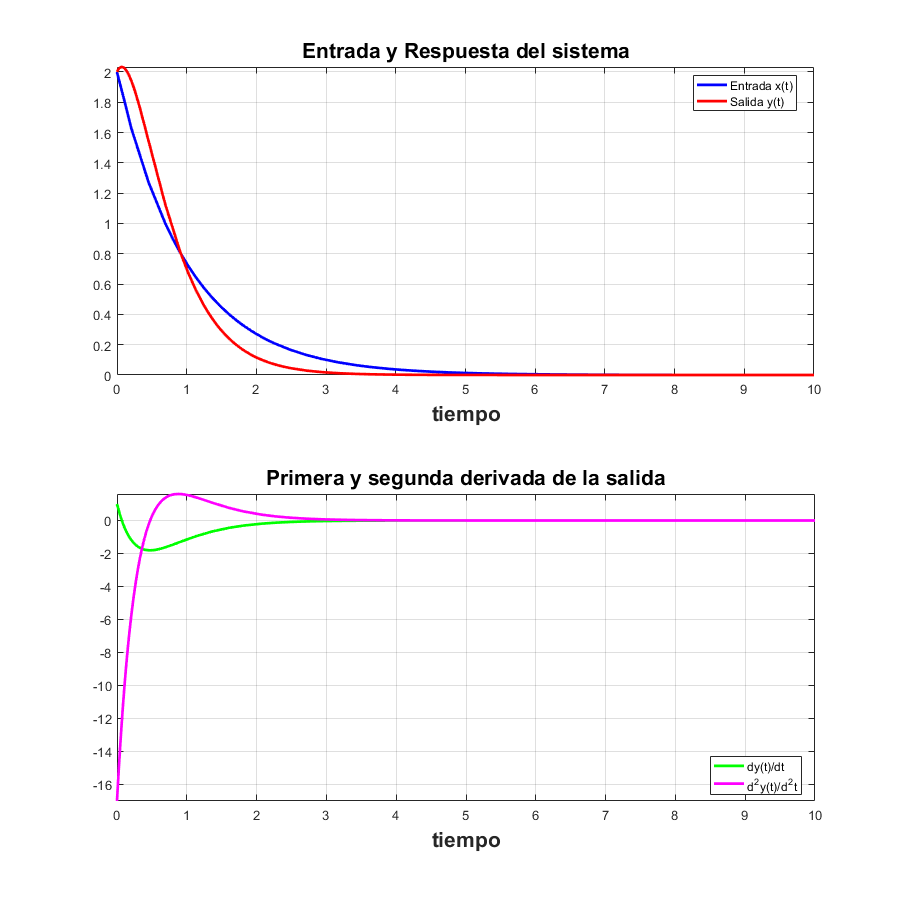
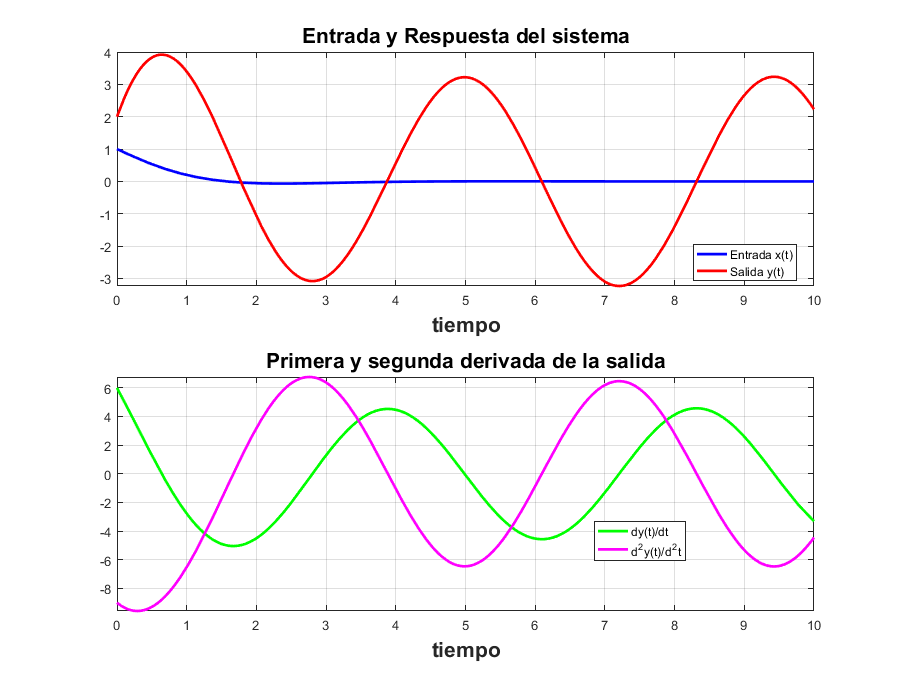
Ajustes

diff --git a/RPL06 Sistemas diferenciales/Ejercicio/html/Practica6.html b/RPL06 Sistemas diferenciales/Ejercicio/html/Practica6.html
@@ -6,7 +6,7 @@
    <!--
 This HTML was auto-generated from MATLAB code.
 To make changes, update the MATLAB code and republish this document.
-      --><title>Pr&aacute;ctica 6: Sistemas diferenciales</title><meta name="generator" content="MATLAB 9.0"><link rel="schema.DC" href="http://purl.org/dc/elements/1.1/"><meta name="DC.date" content="2017-06-05"><meta name="DC.source" content="Practica6.m"><style type="text/css">
+      --><title>Pr&aacute;ctica 6: Sistemas diferenciales</title><meta name="generator" content="MATLAB 9.0"><link rel="schema.DC" href="http://purl.org/dc/elements/1.1/"><meta name="DC.date" content="2017-06-06"><meta name="DC.source" content="Practica6.m"><style type="text/css">
 html,body,div,span,applet,object,iframe,h1,h2,h3,h4,h5,h6,p,blockquote,pre,a,abbr,acronym,address,big,cite,code,del,dfn,em,font,img,ins,kbd,q,s,samp,small,strike,strong,sub,sup,tt,var,b,u,i,center,dl,dt,dd,ol,ul,li,fieldset,form,label,legend,table,caption,tbody,tfoot,thead,tr,th,td{margin:0;padding:0;border:0;outline:0;font-size:100%;vertical-align:baseline;background:transparent}body{line-height:1}ol,ul{list-style:none}blockquote,q{quotes:none}blockquote:before,blockquote:after,q:before,q:after{content:'';content:none}:focus{outine:0}ins{text-decoration:none}del{text-decoration:line-through}table{border-collapse:collapse;border-spacing:0}
 
 html { min-height:100%; margin-bottom:1px; }
@@ -67,42 +67,51 @@ table td { padding:7px 5px; text-align:left; vertical-align:top; border:1px soli
 
 
   </style></head><body><div class="content"><h1>Pr&aacute;ctica 6: Sistemas diferenciales</h1><!--introduction--><p>Alvarado Balbuena Jorge Anselmo</p><!--/introduction--><h2>Contents</h2><div><ul><li><a href="#1">Configuracion de funcion</a></li><li><a href="#2">Problema a resolver</a></li><li><a href="#3">Ejecucion de Funcion</a></li></ul></div><h2>Configuracion de funcion<a name="1"></a></h2><p>Configuracion de funcion</p><pre class="codeinput">sympref(<span class="string">'HeavisideAtOrigin'</span>, 1);
-</pre><h2>Problema a resolver<a name="2"></a></h2><p>Resolver y^(3)+y^(2)+2y^(1)+2y=3x^(2)-x^(1)+2x con y^(2)(0)=1 y^(1)=3</p><p>y(0)=2, x(0)=0 x^(1)=1, x(t)=exp(-t)cos(t)u(t)</p><p>Para 10 segundos</p><h2>Ejecucion de Funcion<a name="3"></a></h2><pre class="codeinput">sympref(<span class="string">'HeavisideAtOrigin'</span>, 1);
-syms <span class="string">t</span>
-Laplace2016a([6 5 1],[1 1],[2,-1],[0],2.*exp(-t),10)
+</pre><h2>Problema a resolver<a name="2"></a></h2><p>Resolver y^(3)+y^(2)+2y^(1)+2y=3x^(2)-x^(1)+2x con y^(2)(0)=1 y^(1)=3</p><p>y(0)=2, x(0)=0 x^(1)=1, x(t)=exp(-t)cos(t)u(t)</p><p>Para 10 segundos</p><h2>Ejecucion de Funcion<a name="3"></a></h2><pre class="codeinput">syms <span class="string">t</span>
+Laplace2016a([2 2 1 1],[2 -1 3],[2 3 1],[0 1],exp(-t)*cos(t)*heaviside(t),10)
 </pre><pre class="codeoutput"> 
 La soluci&oacute;n es
  
 y(t)=
-7*exp(-2*t) - 5*exp(-3*t)
+(2*exp(-t))/3 + (7*cos(2^(1/2)*t))/3 - exp(-t)*(cos(t) - (5*sin(t))/2) + (19*2^(1/2)*sin(2^(1/2)*t))/12
  
  
 Respuesta entrada 0
  
-5*exp(-2*t) - 3*exp(-3*t)
+(5*exp(-t))/3 + cos(2^(1/2)*t)/3 + (7*2^(1/2)*sin(2^(1/2)*t))/3
  
  
 Respuesta estado 0
  
-2*dirac(t)
+3*exp(-t)*(cos(t) + (7*sin(t))/3) - 7*dirac(t) + 3*dirac(1, t)
  
  
 Respuesta Total
  
-5*exp(-2*t) - 3*exp(-3*t) + 2*dirac(t)
+(5*exp(-t))/3 + cos(2^(1/2)*t)/3 - 7*dirac(t) + 3*exp(-t)*(cos(t) + (7*sin(t))/3) + (7*2^(1/2)*sin(2^(1/2)*t))/3 + 3*dirac(1, t)
  
 Funcion de tranferencia
-s + 1
+(((s + 1)^2 + 1)*(3*s + (3*(s + 1))/((s + 1)^2 + 1) + 7/((s + 1)^2 + 1) - 7))/(s + 1)
  
-s + 1
+        2      /         3 (s + 1)          7          \
+((s + 1)  + 1) | 3 s + ------------ + ------------ - 7 |
+               |              2              2         |
+               \       (s + 1)  + 1   (s + 1)  + 1     /
+--------------------------------------------------------
+                          s + 1
 
  
 Respuesta al impulso
  
+3*dirac(2, t) - dirac(t) - 4*dirac(1, t) - 3*exp(-t)
+ 
+ 
+Respuesta al escalon
+ 
  
 ans(t) =
  
-7*exp(-2*t) - 5*exp(-3*t)
+(2*exp(-t))/3 + (7*cos(2^(1/2)*t))/3 - exp(-t)*(cos(t) - (5*sin(t))/2) + (19*2^(1/2)*sin(2^(1/2)*t))/12
  
 </pre><img vspace="5" hspace="5" src="Practica6_01.png" alt=""> <img vspace="5" hspace="5" src="Practica6_02.png" alt=""> <p class="footer"><br><a href="http://www.mathworks.com/products/matlab/">Published with MATLAB&reg; R2016a</a><br></p></div><!--
 ##### SOURCE BEGIN #####
@@ -123,8 +132,7 @@ sympref('HeavisideAtOrigin', 1);
 %% Ejecucion de Funcion
 %
 
-sympref('HeavisideAtOrigin', 1);
 syms t
-Laplace2016a([6 5 1],[1 1],[2,-1],[0],2.*exp(-t),10)
+Laplace2016a([2 2 1 1],[2 -1 3],[2 3 1],[0 1],exp(-t)*cos(t)*heaviside(t),10)
 ##### SOURCE END #####
 --></body></html>

diff --git a/RPL06 Sistemas diferenciales/Ejercicio/Laplace2016a.m b/RPL06 Sistemas diferenciales/Ejercicio/Laplace2016a.m
@@ -91,7 +91,8 @@ function [y] = Laplace2016a(a, b, ciy, cix, xi, t0)
     subplot(3,2,1);
     fplot(entradaCero, [0,t0],'b','LineWidth',2);
     grid on;
-    legend('Respuesta a entrada 0','Location','Best');
+%     legend('Respuesta a entrada 0','Location','Best');
+    title('Respuesta a entrada 0')
     xlabel('t','FontWeight','bold','FontSize',16);
     
     %%% Grafica de la respuesta a estado cero
@@ -104,7 +105,8 @@ function [y] = Laplace2016a(a, b, ciy, cix, xi, t0)
     subplot(3,2,2);
     fplot(estadoCero, [0,t0],'b','LineWidth',2);
     grid on;
-    legend('Respuesta a estado 0','Location','Best');
+%     legend('Respuesta a estado 0','Location','Best');
+    title('Respuesta al estado 0')
     xlabel('t','FontWeight','bold','FontSize',16);
     
     %%% Grafica de la respuesta total
@@ -116,7 +118,8 @@ function [y] = Laplace2016a(a, b, ciy, cix, xi, t0)
     subplot(3,2,3);
     fplot(respTotal, [0,t0],'b','LineWidth',2);
     grid on;
-    legend('Respuesta Total','Location','Best');
+%     legend('Respuesta Total','Location','Best');
+    title('Respuesta Total')
     xlabel('t','FontWeight','bold','FontSize',16);
     
     %%% Funcion de transferencias
@@ -133,7 +136,8 @@ function [y] = Laplace2016a(a, b, ciy, cix, xi, t0)
     subplot(3,2,4);
     fplot(respuestaImpulso, [0,t0],'b','LineWidth',2);
     grid on;
-    legend('Respuesta al impulso','Location','Best');
+%     legend('Respuesta al impulso','Location','Best');
+    title('Respuesta al impulso')
     xlabel('t','FontWeight','bold','FontSize',16);
 
     %%% Grafica respuesta al escalon
@@ -143,7 +147,8 @@ function [y] = Laplace2016a(a, b, ciy, cix, xi, t0)
     subplot(3,2,5);
     fplot(ilaplace(respuestaEscalon), [0,t0],'b','LineWidth',2);
     grid on;
-    legend('Respuesta al escalon','Location','Best');
+%     legend('Respuesta al escalon','Location','Best');
+    title('Respuesta al escalon')
     xlabel('t','FontWeight','bold','FontSize',16);
 
     

diff --git a/RPL06 Sistemas diferenciales/Ejercicio/Pruebas.m b/RPL06 Sistemas diferenciales/Ejercicio/Pruebas.m
@@ -1,6 +1,26 @@
 sympref('HeavisideAtOrigin', 1);
 syms t
-%Laplace2016a([6 5 1],[1 1],[2,-1],[0],2.*exp(-t),10)
-%Laplace2016a([10 7 1],[1],[0,0],[0],heaviside(t),10)
+% Laplace2016a([6 5 1],[1 1],[2,-1],[0],2.*exp(-t),10)
+% Laplace2016a([10 7 1],[1],[0,0],[0],heaviside(t),10)
 Laplace2016a([2 2 1 1],[2 -1 3],[2 3 1],[0 1],exp(-t)*cos(t)*heaviside(t),10)
 
+% Laplace2016a([1 7 10], [0 0], [0 0], [0 1], exp(-3.*t), 20)
+
+% syms edd s ed edos
+% edd = (s+4)/(s+1).^2;
+% 
+% edos = 1/(s.*(s+1).^2);
+% pretty(edos);
+% 
+% ed = partfrac(edd);
+% disp(ed);
+% pretty(ed);
+% 
+% redos = partfrac(edos);
+% disp(redos);
+% pretty(redos);
+% 
+% 
+% disp('Inversa de ecuaciones')
+% disp(ilaplace(edd));
+% disp(ilaplace(redos));

diff --git a/RPL06 Sistemas diferenciales/Ejercicio/Practica6.m b/RPL06 Sistemas diferenciales/Ejercicio/Practica6.m
@@ -15,6 +15,5 @@ sympref('HeavisideAtOrigin', 1);
 %% Ejecucion de Funcion
 %
 
-sympref('HeavisideAtOrigin', 1);
 syms t
-Laplace2016a([6 5 1],[1 1],[2,-1],[0],2.*exp(-t),10)
+Laplace2016a([2 2 1 1],[2 -1 3],[2 3 1],[0 1],exp(-t)*cos(t)*heaviside(t),10)
